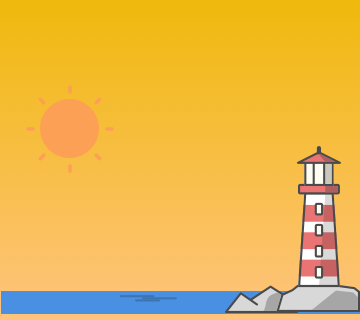
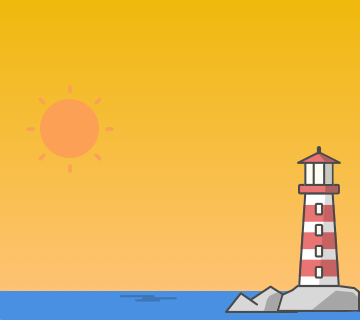
Updating repository

Changed region(s): [[0.0, 0.9688, 1.0, 1.0]]

diff --git a/weatherBar.js b/weatherBar.js
@@ -4,47 +4,47 @@ import { StyleSheet, Text, View, Image } from "react-native";
 import getCurrentWeather from "./currentWeather";
 import getCurrentLocation from "./currentWeather";
 
-function getImageSource(weatherData) {
-  // Check if weatherData is null or if the necessary properties are missing
-  if (!weatherData?.weather?.[0]?.description) {
-    return require("./assets/Images/sea_sunnypng.png"); // Default image if data is missing
-  }
-
-  const condition = weatherData.weather[0].description.toLowerCase();
-
-  // Check the weather condition and return the corresponding image
-  if (condition.includes("cloud")) {
-    return require("./assets/Images/sea_cloudy.png");
-  } else if (condition.includes("rain")) {
-    return require("./assets/Images/sea_rainy.png");
-  } else if (condition.includes("clear sky")) {
-    return require("./assets/Images/sea_sunnypng.png");
-  } else {
-    return require("./assets/Images/sea_sunnypng.png");
-  }
-}
-const getBackgroundColor = (condition) => {
-  if (!condition) {
-    return "#47ab2f"; // Default background color if condition is missing
-  }
-
-  condition = condition.toLowerCase();
-
-  if (condition.includes("clear")) {
-    return "#47ab2f";
-  } else if (condition.includes("cloud")) {
-    return "#54717a";
-  } else if (condition.includes("rain")) {
-    return "#57575d";
-  } else {
-    return "#57575d"; // Default background color
-  }
-};
-
 export default function WeatherBar() {
-  const [weatherData, setWeatherData] = useState(null);
+  const [weatherData, setWeatherData] = useState({ description: "clear" });
   const [loading, setLoading] = useState(true);
-  const initialWeatherData = null; //Start weatherData as null
+
+  // You may fetch weatherData from an API and update it in useEffect
+
+  useEffect(() => {
+    // Simulate fetching weather data
+    setTimeout(() => {
+      setWeatherData({ description: "cloudy" });
+      setLoading(false);
+    }, 2000);
+  }, []);
+
+  const condition = weatherData.description;
+  const backgroundImage = getImageSource(condition);
+  const backgroundColor = getBackgroundColor(condition);
+
+  function getBackgroundColor(condition) {
+    if (condition === "clear") {
+      return "#4a90e2"; // Light Yellow
+    } else if (condition.includes("cloud")) {
+      return "#54717a"; // Light Sky Blue
+    } else if (condition.includes("rain")) {
+      return "#57575d"; // Steel Blue
+    } else {
+      return "#4a90e2"; // Light Yellow (default)
+    }
+  }
+
+  function getImageSource(condition) {
+    if (condition === "clear") {
+      return require("./Assets/Images/sea_sunnypng.png");
+    } else if (condition.includes("cloud")) {
+      return require("./Assets/Images/sea_cloudy.png");
+    } else if (condition.includes("rain")) {
+      return require("./Assets/Images/sea_rainy.png");
+    } else {
+      return require("./Assets/Images/sea_sunnypng.png");
+    }
+  }
 
   useEffect(() => {
     // Get the user's current location
@@ -76,22 +76,13 @@ export default function WeatherBar() {
   }, []);
 
   return (
-    <View
-      style={[
-        styles.container,
-        {
-          backgroundColor: getBackgroundColor(
-            weatherData?.weather?.[0]?.description
-          ),
-        },
-      ]}
-    >
-      <Image source={getImageSource(weatherData)} style={styles.weatherImage} />
+    <View style={[styles.container, { backgroundColor }]}>
+      <Image source={backgroundImage} style={styles.backgroundImage} />
 
       {weatherData ? ( // Check if weatherData is not null
         <View style={styles.temperatureColumn}>
-          <Text style={styles.tempDegree}>{weatherData.temperature}°C</Text>
-          <Text style={styles.cloudyText}>{weatherData.description}</Text>
+          <Text style={styles.tempDegree}>{weatherData.temperature}°</Text>
+          <Text style={styles.conditionText}>{weatherData.description}</Text>
         </View>
       ) : (
         <Text style={styles.value}>Loading...</Text> // Show a loading message while data is being fetched
@@ -101,7 +92,7 @@ export default function WeatherBar() {
         {weatherData !== null ? (
           <View style={styles.column}>
             <Text style={styles.value}>{weatherData.tempLow}°C</Text>
-            <Text style={styles.label}>minimum</Text>
+            <Text style={styles.label}>min</Text>
           </View>
         ) : (
           <Text style={styles.value}>Loading...</Text>
@@ -136,24 +127,28 @@ const styles = StyleSheet.create({
     flex: 1,
     alignItems: "center",
     justifyContent: "center",
-    paddingBottom: 10,
+    width: "100%",
+    marginBottom: 100,
+    top: 0,
   },
   flexItemImage: {
     display: "flex",
   },
   temperatureDiv: {
+    display: "flex",
     flexDirection: "row",
-    alignItems: "flex-start",
-    justifyContent: "space-around",
-    width: "100%",
-    marginTop: 20,
+    justifyContent: "center",
+    top: 250,
   },
+
   WeekForecastDiv: {
+    width: "100%",
     flexDirection: "column", // Stack columns vertically
   },
   column: {
     alignItems: "center",
     textAlign: "center",
+    width: "70%",
   },
   dayContainer: {
     flexDirection: "row",
@@ -167,36 +162,42 @@ const styles = StyleSheet.create({
     alignItems: "center",
   },
   tempDegree: {
-    fontSize: 70,
+    fontSize: 90,
     color: "white",
+    fontWeight: "600",
   },
-  cloudyText: {
-    fontSize: 30,
+  conditionText: {
+    fontSize: 40,
     color: "white",
+    fontWeight: "600",
   },
   temperatureColumn: {
     position: "absolute",
     alignItems: "center",
     top: 50,
   },
-  weatherImage: {
+  backgroundImage: {
     flex: 1,
+    resizeMode: "cover",
+    position: "absolute",
     width: "100%",
     height: "100%",
-    resizeMode: "stretch",
+    top: 0,
   },
   label: {
     color: "white",
+    fontSize: 20,
   },
   value: {
     color: "white",
-    fontSize: 20,
+    fontSize: 25,
+    fontWeight: "600",
   },
   icons: {
     width: 25,
     height: 25,
   },
-  WeekForecastDiv: {
-    width: "100%",
+  weatherBar: {
+    flex: 1,
   },
 });

diff --git a/Weather.js b/Weather.js
@@ -13,23 +13,23 @@ const WeatherComponent = () => {
   const [isLoading, setIsLoading] = useState(true);
 
   useEffect(() => {
-    // Define the API key and URL template
+    // Declaring varibles for the API key & the API url
     const apiKey = "ea746b888533cc57dee30c0998719314";
     const apiUrl =
       "https://api.openweathermap.org/data/2.5/forecast?lat={lat}&lon={lon}&appid={API key}";
 
-    // Get user's location using geolocation
+    // Getting user's location using geolocation
     navigator.geolocation.getCurrentPosition(
       (position) => {
         const { latitude, longitude } = position.coords;
 
-        // Replace placeholders in the URL with actual latitude, longitude, and API key
+        // Replacing placeholders in the URL with actual latitude, longitude, and API key
         const url = apiUrl
           .replace("{lat}", latitude)
           .replace("{lon}", longitude)
           .replace("{API key}", apiKey);
 
-        // Fetch the 5-day weather forecast data
+        // Fetching the 5-day weather forecast data
         fetch(url)
           .then((response) => response.json())
           .then((data) => {
@@ -46,7 +46,7 @@ const WeatherComponent = () => {
 
             setForecastData(filteredData);
             setIsLoading(false);
-          })
+          }) //Error handlers to handle bad requests
           .catch((error) => {
             console.error("Error fetching weather data:", error);
             setIsLoading(false);
@@ -60,6 +60,7 @@ const WeatherComponent = () => {
     );
   }, []);
 
+  //Creating variables to be used in the User Interface
   const renderForecastItem = ({ item }) => {
     const timestamp = item.dt;
     const date = new Date(timestamp * 1000);
@@ -69,7 +70,7 @@ const WeatherComponent = () => {
     return (
       <View style={styles.forecastItem}>
         <View>
-          <Text>{dayOfWeek}</Text>
+          <Text style={styles.textFont}>{dayOfWeek}</Text>
         </View>
 
         <Image
@@ -78,7 +79,7 @@ const WeatherComponent = () => {
         />
 
         <View>
-          <Text>{celsiusTemperature}°C</Text>
+          <Text style={styles.textFont}>{celsiusTemperature}°C</Text>
         </View>
       </View>
     );
@@ -102,23 +103,28 @@ const styles = StyleSheet.create({
     flex: 1,
     justifyContent: "flex-end",
     alignItems: "flex-end",
+    paddingBottom: 30,
   },
+
   forecastItem: {
-    backgroundColor: "#54717a",
     display: "flex",
     flexDirection: "row",
     justifyContent: "space-between",
     alignItems: "space-between",
-    width: "300px",
-    padding: 10,
-    borderBottomWidth: 1,
-    borderBottomColor: "#ccc",
+    width: "340px",
+    marginTop: 10,
+    paddingLeft: 20,
+    paddingRight: 20,
   },
   weatherIcon: {
-    width: "20px",
+    width: "30px",
   },
   textStyle: {
     color: "#fff",
+  },
+  textFont: {
+    color: "white",
+    fontSize: 20,
   },
 });
 

diff --git a/currentWeather.js b/currentWeather.js
@@ -1,12 +1,14 @@
 import axios from "axios";
 import Geolocation from "react-native-geolocation-service";
 
-const GOOGLE_GEOLOCATION_API_KEY = "AIzaSyB-UnGYL8sCsOxbEmzVRi-L-WSnFSoyvGI"; // Replace with your Google Geolocation API key
-const OPENWEATHERMAP_API_KEY = "7345747c2481a6ee0beb4b799895892c"; // Replace with your OpenWeatherMap API key
+//Declaring variables for the Google geolocation & OpenWeather API key
+const GOOGLE_GEOLOCATION_API_KEY = "AIzaSyB-UnGYL8sCsOxbEmzVRi-L-WSnFSoyvGI";
+const OPENWEATHERMAP_API_KEY = "7345747c2481a6ee0beb4b799895892c";
 const GEOLOCATION_API_URL =
   "https://www.googleapis.com/geolocation/v1/geolocate";
 const WEATHER_API_URL = "https://api.openweathermap.org/data/2.5/weather";
 
+//Creating a function that will fetch the current location of the user
 function getCurrentLocation() {
   return new Promise((resolve, reject) => {
     Geolocation.getCurrentPosition(
@@ -22,9 +24,9 @@ function getCurrentLocation() {
   });
 }
 
+// Below will be a function to get the current weather in the respective geolocation
 const getCurrentWeather = async () => {
   try {
-    // Get the user's current location
     const { latitude, longitude } = await getCurrentLocation();
 
     // Call Google Geolocation API to get the user's location details
@@ -41,6 +43,7 @@ const getCurrentWeather = async () => {
         `${WEATHER_API_URL}?lat=${lat}&lon=${lng}&appid=${OPENWEATHERMAP_API_KEY}&units=metric`
       );
 
+      //Decalre variables we will use to push data into the User Interface
       if (weatherResponse.status === 200) {
         const weatherData = weatherResponse.data;
         const temperature = Math.round(weatherData.main.temp);

diff --git a/App.js b/App.js
@@ -6,8 +6,8 @@ import WeatherBar from "./weatherBar.js";
 const App = () => {
   return (
     <View style={styles.container}>
-      <WeatherComponent />
       <WeatherBar />
+      <WeatherComponent />
     </View>
   );
 };
@@ -17,6 +17,7 @@ const styles = StyleSheet.create({
     flex: 1,
     justifyContent: "center",
     alignItems: "center",
+    backgroundColor: "#4a90e2",
   },
 });
 
